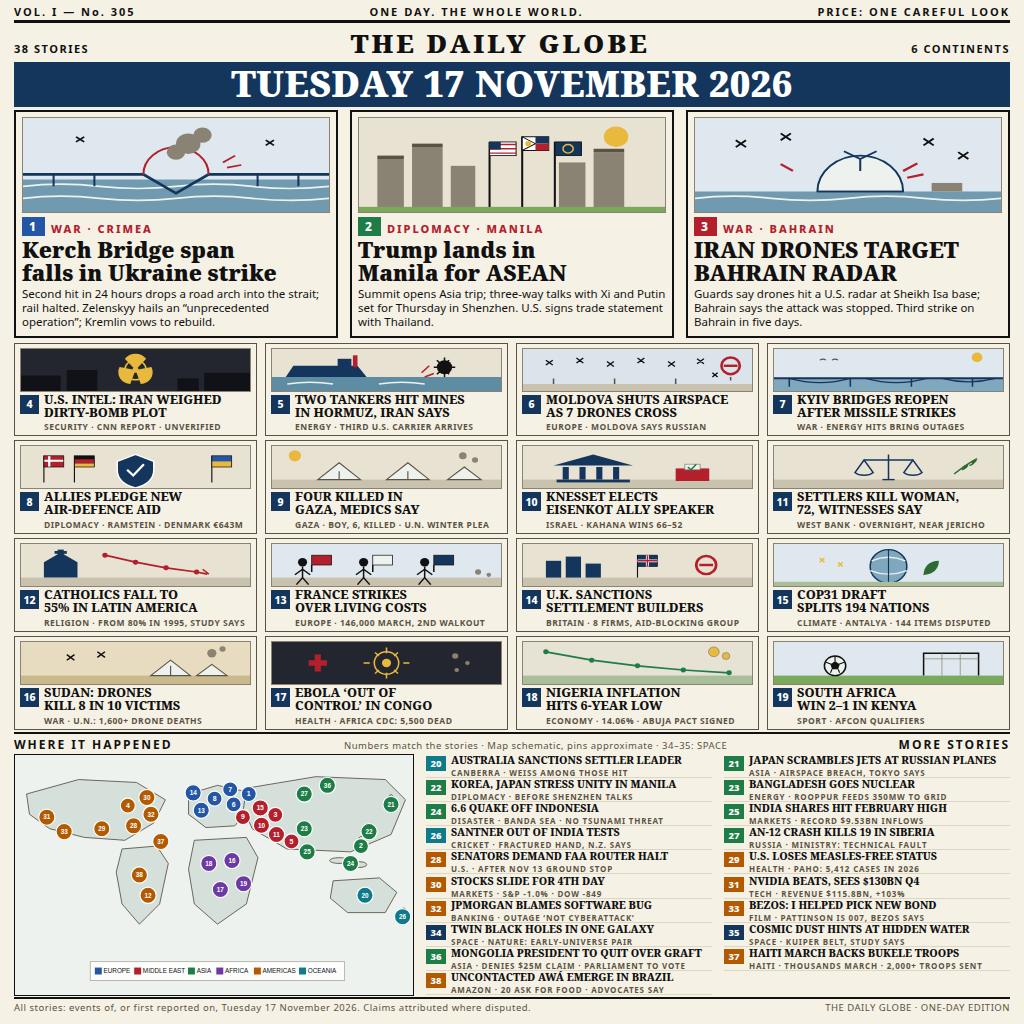
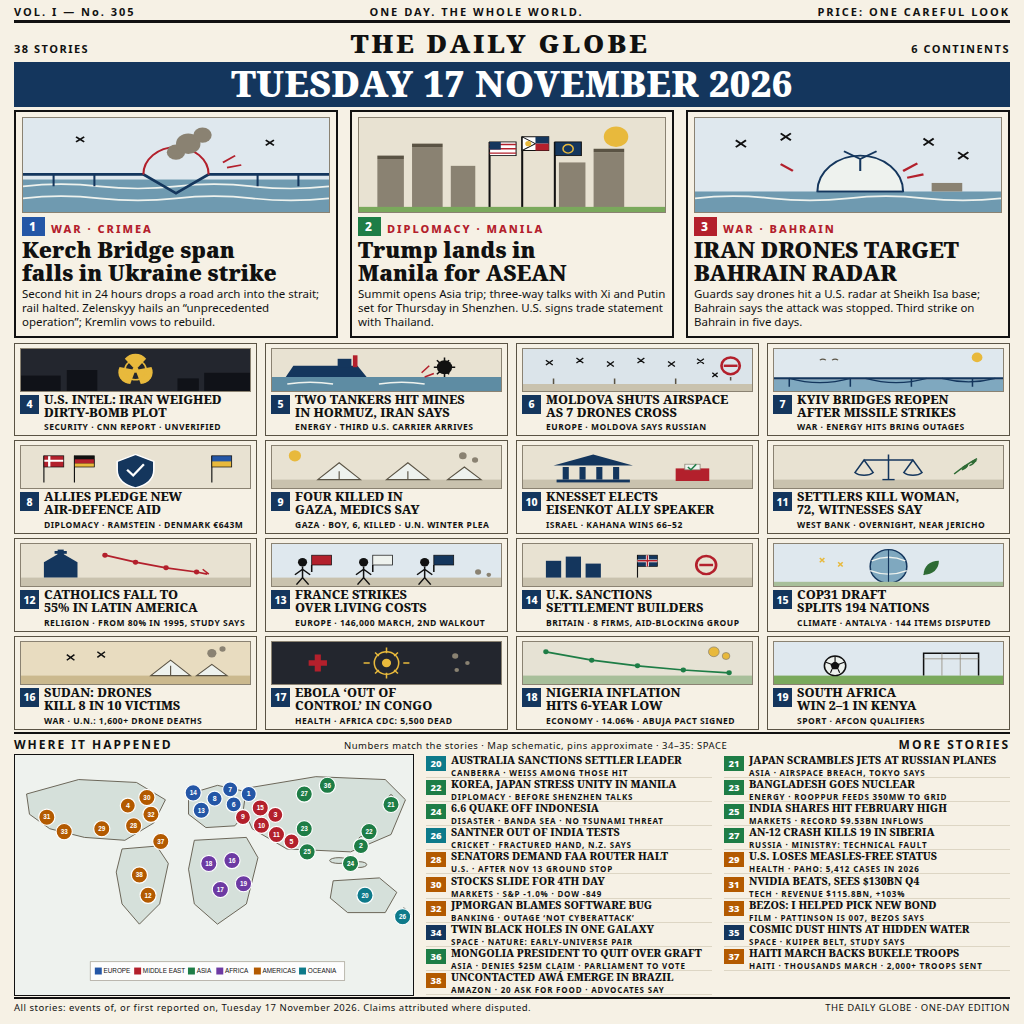
v5.1: darken all secondary text to ink black for 300px contrast

diff --git a/render.html b/render.html
@@ -37,12 +37,12 @@
     display:flex;align-items:center;justify-content:center;margin-top:1px}
   .h{font-family:"Noto Serif","DejaVu Serif",Georgia,serif;font-size:12.5px;font-weight:800;
     line-height:1.03;text-wrap:balance}
-  .l{font-size:8.5px;font-weight:700;letter-spacing:.5px;color:#5a5344;margin-top:2px}
+  .l{font-size:8.5px;font-weight:700;letter-spacing:.5px;color:#111;margin-top:2px}
   /* bottom: small map + dense list */
   .bothead{display:flex;justify-content:space-between;align-items:baseline;margin-top:2px;
     border-top:2px solid #111;padding-top:2px}
   .bothead b{font-size:12px;letter-spacing:2px}
-  .bothead span{font-size:9.5px;letter-spacing:.5px;color:#5a5344}
+  .bothead span{font-size:9.5px;letter-spacing:.5px;color:#111}
   .bot{display:flex;gap:12px;margin-top:1px}
   .map{flex:0 0 400px;border:1.5px solid #111;background:#eef2ee}
   .map svg{display:block}
@@ -56,7 +56,7 @@
   .li .n.sp{background:#14365d}
   .li .h{font-size:10.5px;line-height:1.04;letter-spacing:0}
   .li .l{font-size:8px;letter-spacing:.8px;margin-top:1px}
-  .foot{display:flex;justify-content:space-between;font-size:9.5px;color:#5a5344;
+  .foot{display:flex;justify-content:space-between;font-size:9.5px;color:#111;
     border-top:2px solid #111;margin-top:1px;padding-top:2px;letter-spacing:.5px}
 </style></head>
 <body><div class="page">
